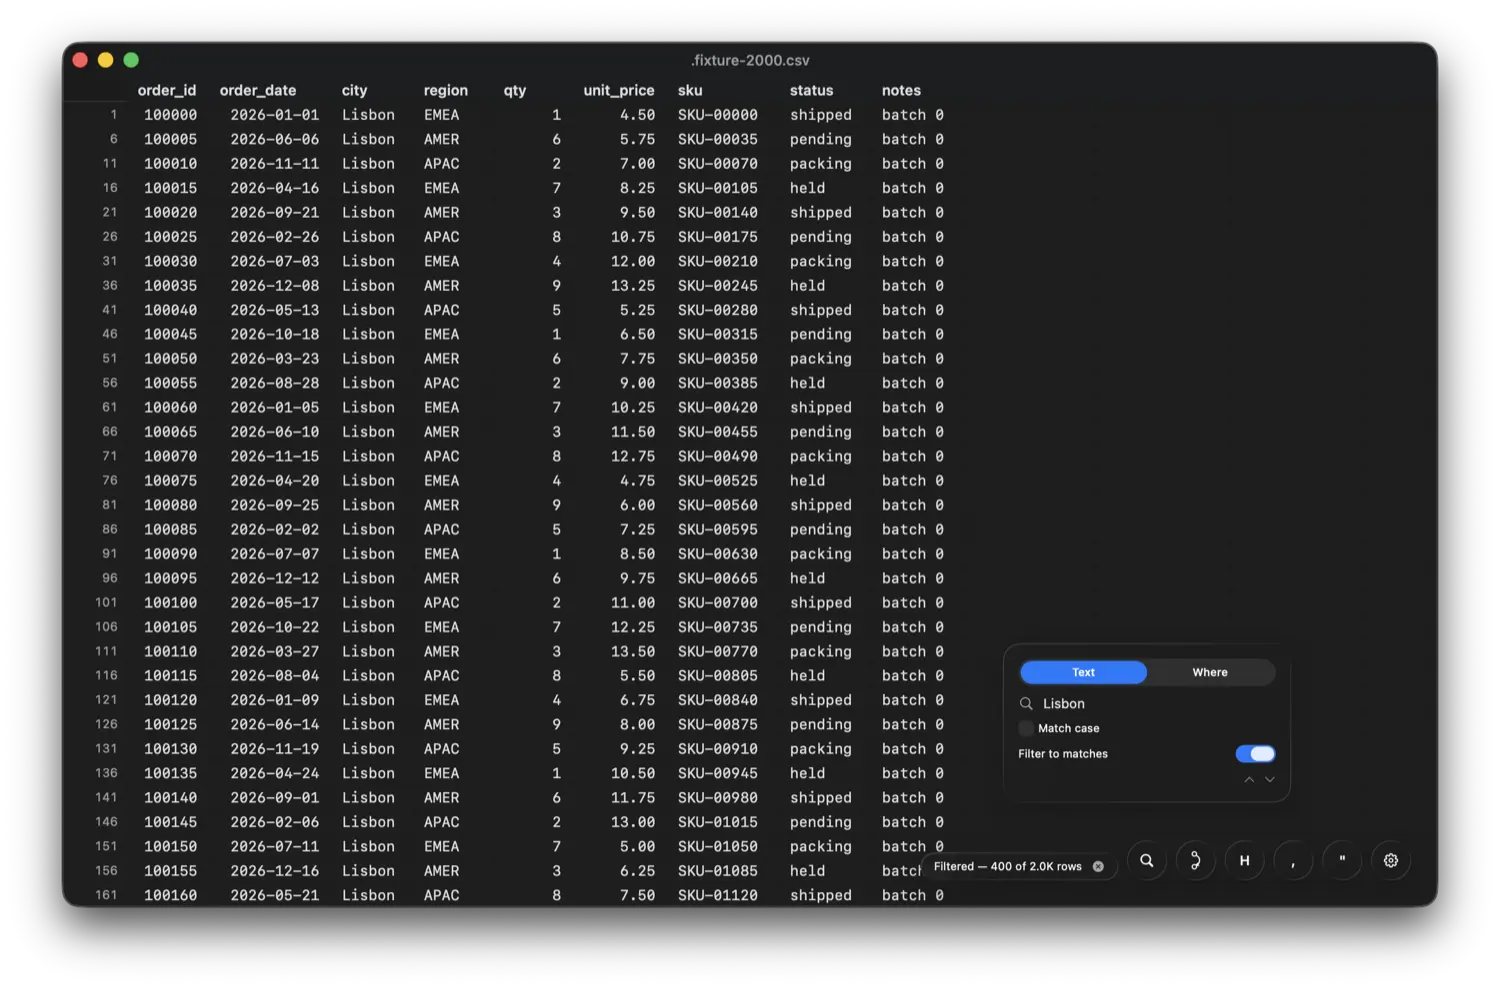
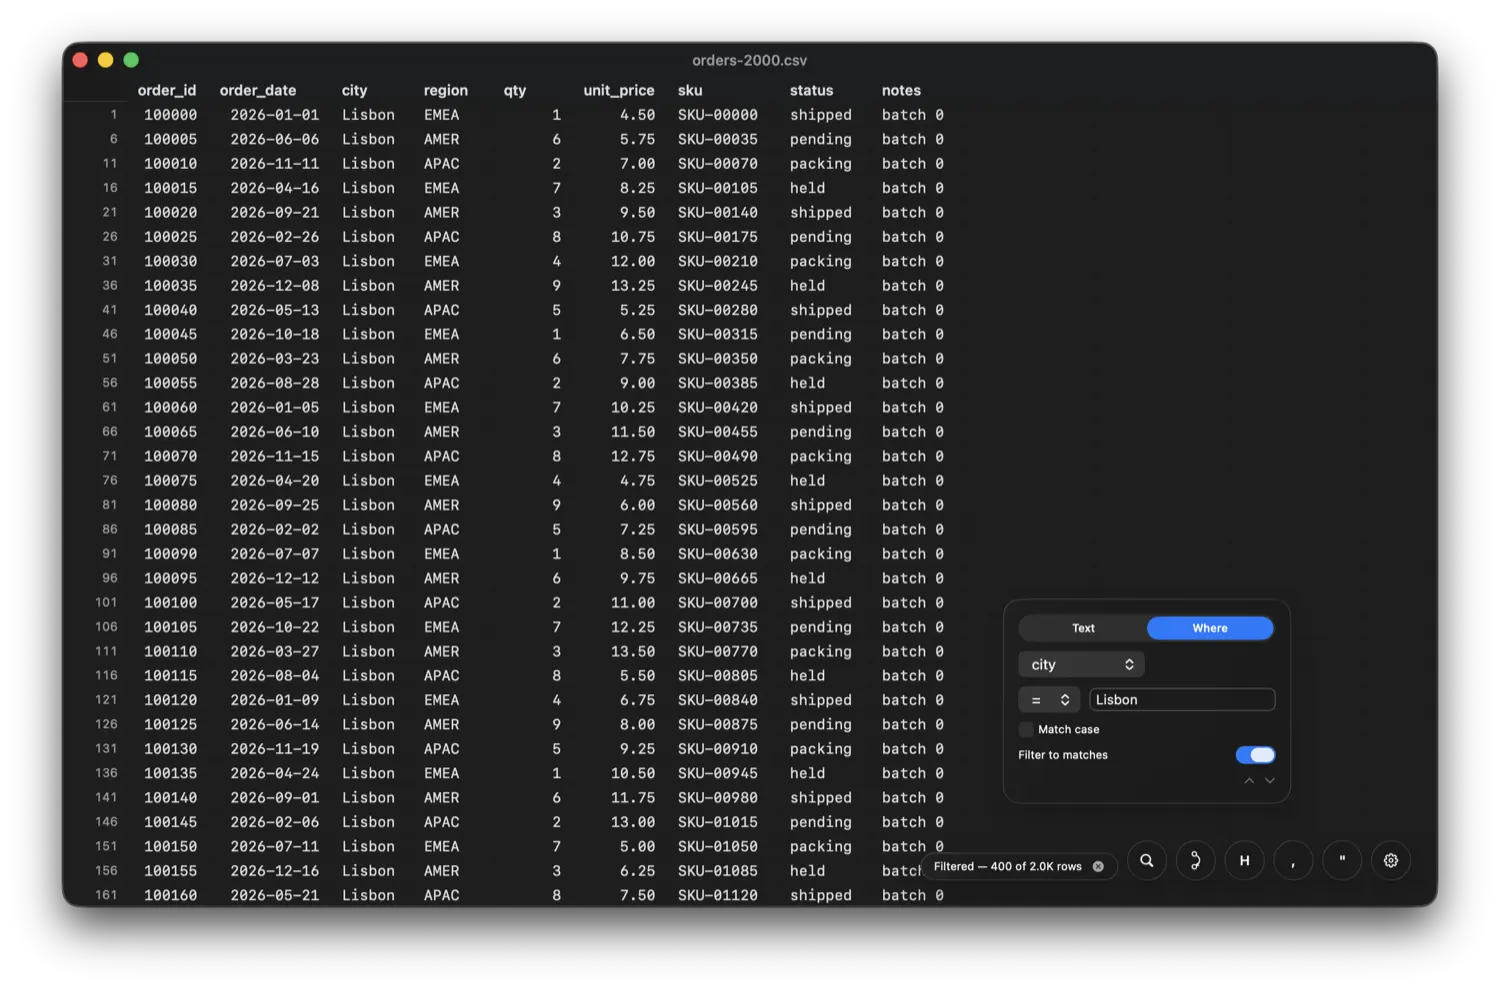
shots: photograph the column predicate, and let GTK draw its real window
THE FILTER SHOT WAS THE SEARCH SHOT. Both platforms shipped a "filter" image
that differed from the "search" image only by the "Filter to matches" switch —
same Text tab, same popover, same rows. The Where predicate, which is the
feature the section is about, was never pictured. The author caught it by looking.

Both frontends gain a capture hook for it: LESSSHEET_FILTER_WHERE on macOS,
LESSSHEET_GTK_CAPTURE_WHERE on GTK, both spelled `<header>=<value>` and both
resolving the column BY HEADER NAME rather than index. An index would keep
working after a fixture gains a field and quietly photograph a different column
— filtered rows, correct pill, wrong column, and the picture would still look
right. Unknown header logs and falls back to the old text filter rather than
shooting something misleading.

Verified by looking at the image, not the log: Where tab active, column `city`,
operator `=`, value `Lisbon`, "Filtered — 400 of 2.0K rows".

LINUX SHOTS LOOKED BLUNT because there was no compositor. GTK4 asks
`gdk_display_is_composited()` before drawing client-side decorations: with one it
renders rounded corners and a drop shadow into an ARGB surface, without one it
falls back to SQUARE, OPAQUE edges. The capture ran Xvfb with no window manager,
so every Linux shot was the square fallback next to macOS shots taken under a
system compositor that is always running — which is exactly the "borders,
squareness" the author saw. picom now runs for the session, and is in the deps
[…]

diff --git a/apps/macos/Sources/LessSheetApp/FilterRepaintProbe.swift b/apps/macos/Sources/LessSheetApp/FilterRepaintProbe.swift
@@ -53,6 +53,33 @@ enum FilterRepaintProbe {
         return (raw.isEmpty || raw == "1") ? "a" : raw
     }
 
+    /// `LESSSHEET_FILTER_WHERE=<header>=<value>` switches the probe from a text
+    /// filter to a COLUMN PREDICATE, e.g. `city=Lisbon`.
+    ///
+    /// Resolves the column by its HEADER TEXT rather than an index on purpose:
+    /// an index silently points at a different column the moment the fixture
+    /// gains a field, and the screenshot would still look plausible — filtered
+    /// rows, a correct pill, the wrong column. Returns nil when the variable is
+    /// absent or names a header this document does not have, in which case the
+    /// probe keeps its original text-filter behaviour.
+    @MainActor
+    private static func predicate(model: DocumentModel) -> (column: Int, value: String)? {
+        guard let raw = env["LESSSHEET_FILTER_WHERE"],
+              let split = raw.firstIndex(of: "=") else { return nil }
+        let header = String(raw[raw.startIndex..<split])
+        let value = String(raw[raw.index(after: split)...])
+        guard !header.isEmpty, !value.isEmpty else { return nil }
+        let labels = (0..<model.columnCount).map { model.columnLabel($0) }
+        guard let column = labels.firstIndex(where: {
+            $0.compare(header, options: .caseInsensitive) == .orderedSame
+        }) else {
+            log("lesssheet.filterrepaint.where_unknown_column header=\(header)"
+                + " available=\(labels.prefix(12).joined(separator: ","))")
+            return nil
+        }
+        return (column, value)
+    }
+
     private static var started = false
     private static var startTime = DispatchTime.now()
 
@@ -96,8 +123,21 @@ enum FilterRepaintProbe {
         // the "Filter to matches" toggle's binding calls (`applyFindAsFilter`,
         // incl. the fix's explicit `NativeGridController.live?.apply()` poke).
         model.openFindField()
-        model.findSession.draft.mode = .text
-        model.findSession.draft.text = query
+        if let (column, value) = predicate(model: model) {
+            // "Where" mode: a COLUMN PREDICATE, not a text match filtered to
+            // hits. The two look nearly identical on screen otherwise — the
+            // first screenshot set shipped two images that differed only by the
+            // "Filter to matches" switch, so the predicate feature was never
+            // actually pictured. Same submit path as the UI (`applyFindAsFilter`
+            // reads the draft), only the draft's mode differs.
+            model.findSession.draft.mode = .predicate
+            model.findSession.draft.column = column
+            model.findSession.draft.comparison = .equals
+            model.findSession.draft.value = value
+        } else {
+            model.findSession.draft.mode = .text
+            model.findSession.draft.text = query
+        }
         model.applyFindAsFilter()
 
         // SAME synchronous main-actor turn (no await, no DispatchQueue between

diff --git a/apps/gtk/src/main.c b/apps/gtk/src/main.c
@@ -7223,6 +7223,56 @@ capture_drive (App *app, const char *query, const char *row)
       break;
 
     case LSG_CAPTURE_FILTER:
+      {
+        /* LESSSHEET_GTK_CAPTURE_WHERE=<header>=<value> shoots a COLUMN
+         * PREDICATE instead of a text match filtered to hits. Without it the
+         * filter shot differs from the search shot only by the toggle — same
+         * tab, same popover — so the predicate feature is never pictured.
+         * Mirrors the macOS LESSSHEET_FILTER_WHERE contract, header by NAME so
+         * a fixture gaining a column cannot silently retarget the shot. */
+        const char *where = g_getenv ("LESSSHEET_GTK_CAPTURE_WHERE");
+        const char *eq = (where != NULL) ? strchr (where, '=') : NULL;
+        if (eq != NULL && eq != where && *(eq + 1) != '\0'
+            && app->find_stack != NULL && app->where_column != NULL)
+          {
+            char *header = g_strndup (where, (gsize)(eq - where));
+            open_find (app);
+            gtk_stack_set_visible_child_name (app->find_stack, "where");
+            where_ensure_columns (app); /* model is lazy; it must exist now */
+
+            GListModel *model = gtk_drop_down_get_model (app->where_column);
+            guint found = GTK_INVALID_LIST_POSITION;
+            for (guint i = 0;
+                 model != NULL && i < g_list_model_get_n_items (model); i++)
+              {
+                const char *label
+                    = gtk_string_list_get_string (GTK_STRING_LIST (model), i);
+                /* The label may carry a disambiguating tag for duplicate
+                 * headers, so match the leading name, not the whole string. */
+                if (label != NULL
+                    && g_ascii_strncasecmp (label, header, strlen (header))
+                           == 0)
+                  {
+                    found = i;
+                    break;
+                  }
+              }
+            if (found != GTK_INVALID_LIST_POSITION)
+              {
+                gtk_drop_down_set_selected (app->where_column, found);
+                if (app->where_op != NULL)
+                  gtk_drop_down_set_selected (app->where_op, LSG_SEARCH_OP_EQ);
+                if (app->where_value != NULL)
+                  gtk_editable_set_text (app->where_value, eq + 1);
+                gtk_toggle_button_set_active (app->filter_toggle, TRUE);
+                g_free (header);
+                break;
+              }
+            g_printerr ("lesssheet.gtk.capture_where_unknown_column=%s\n",
+                        header);
+            g_free (header);
+          }
+      }
       gtk_editable_set_text (app->find_entry, query);
       open_find (app);
       /* set_active EMITS "toggled" -> on_filter_toggled -> do_apply_filter:
